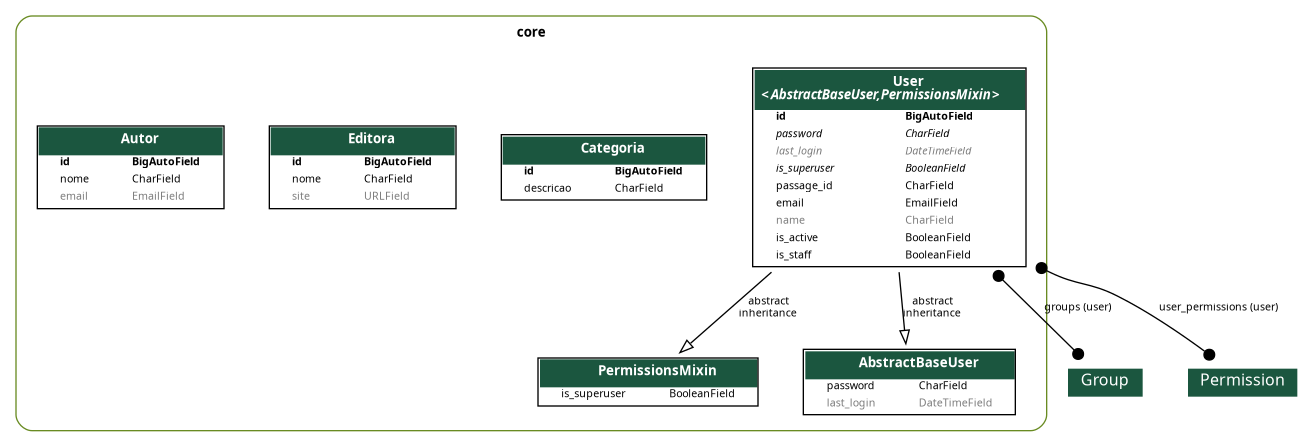
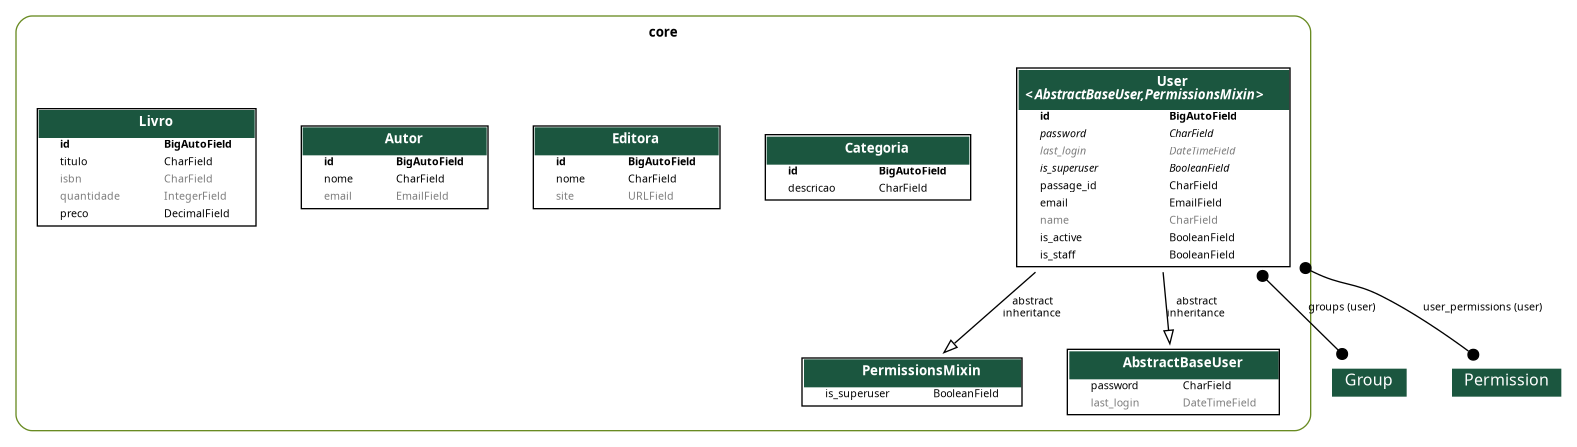
feat: criação da entidade para Livro

diff --git a/core/migrations/0008_livro.py b/core/migrations/0008_livro.py
@@ -1,0 +1,23 @@
+# Generated by Django 5.1.7 on 2026-04-24 13:06
+
+from django.db import migrations, models
+
+
+class Migration(migrations.Migration):
+
+    dependencies = [
+        ('core', '0007_autor'),
+    ]
+
+    operations = [
+        migrations.CreateModel(
+            name='Livro',
+            fields=[
+                ('id', models.BigAutoField(auto_created=True, primary_key=True, serialize=False, verbose_name='ID')),
+                ('titulo', models.CharField(max_length=255)),
+                ('isbn', models.CharField(blank=True, max_length=32, null=True)),
+                ('quantidade', models.IntegerField(blank=True, default=0, null=True)),
+                ('preco', models.DecimalField(decimal_places=2, default=0, max_digits=7)),
+            ],
+        ),
+    ]

diff --git a/core/models/livro.py b/core/models/livro.py
@@ -1,0 +1,10 @@
+from django.db import models
+
+class Livro(models.Model):
+    titulo = models.CharField(max_length=255)
+    isbn = models.CharField(max_length=32, null=True, blank=True)
+    quantidade = models.IntegerField(default=0,  null=True, blank=True)
+    preco = models.DecimalField(max_digits=7, decimal_places=2, default=0)
+
+    def __str__(self):
+        return f'({self.id}) {self.titulo} ({self.quantidade})'

diff --git a/core/views/livro.py b/core/views/livro.py
@@ -1,0 +1,8 @@
+from rest_framework.viewsets import ModelViewSet
+
+from core.models import Livro
+from core.serializers import LivroSerializer
+
+class LivroViewSet(ModelViewSet):
+    queryset = Livro.objects.all()
+    serializer_class = LivroSerializer

diff --git a/core/serializers/livro.py b/core/serializers/livro.py
@@ -1,0 +1,8 @@
+from rest_framework.serializers import ModelSerializer
+
+from core.models import Livro
+
+class LivroSerializer(ModelSerializer):
+    class meta:
+        model = Livro
+        fields = '__all__'

diff --git a/core/serializers/__init__.py b/core/serializers/__init__.py
@@ -2,3 +2,4 @@ from .user import UserSerializer
 from .categoria import CategoriaSerializer
 from .editora import EditoraSerializer
 from .autor import AutorSerializer
+from .livro import LivroSerializer

diff --git a/core/models/__init__.py b/core/models/__init__.py
@@ -2,3 +2,4 @@ from .user import User
 from .categoria import Categoria
 from .editora import Editora
 from .autor import Autor
+from .livro import Livro
